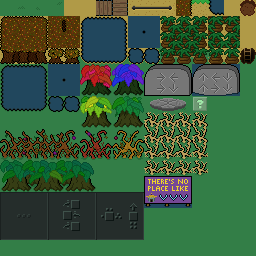
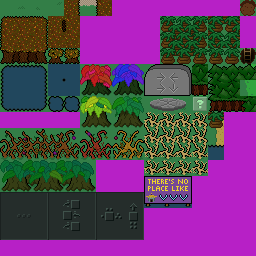
boundary repairs and Goody's room

diff --git a/src/app/sprite/types/fmn_sprite_book.c b/src/app/sprite/types/fmn_sprite_book.c
@@ -2,6 +2,7 @@
 
 #define tileid0 sprite->bv[0]
 #define opened sprite->bv[1]
+#define bellable sprite->bv[2]
 #define tileid_open sprite->argv[0]
 #define table_hack sprite->argv[1] /* cheat position down and turn off physics */
 
@@ -51,7 +52,7 @@ static void book_toggle(struct fmn_sprite *sprite) {
  
 static int16_t _book_interact(struct fmn_sprite *sprite,uint8_t itemid,uint8_t qualifier) {
   switch (itemid) {
-    case FMN_ITEM_BELL: book_toggle(sprite); break;
+    case FMN_ITEM_BELL: if (bellable) book_toggle(sprite); break;
     case FMN_ITEM_WAND: switch (qualifier) {
         case FMN_SPELLID_OPEN: book_open(sprite); break;
       } break;

diff --git a/README.md b/README.md
@@ -22,9 +22,11 @@ Tentatively aiming for full release 29 September 2023, the first full moon of au
 - [x] desert: tiles for forest boundary
 - [x] Church: join path at welcome mat.
 - [x] Castle basement: Make the church attachment look like the church as a hint.
-- [ ] swamp: forest edge
+- [x] swamp: forest edge
+- [x] "Draw door" book in Goody's room.
+- [x] Goody should face left.
 - [ ] Compass: make easier to read
-- [ ] Choose-a-door room.
+- [x] Choose-a-door room.
 - [ ] Black out unused tiles.
 
 ### Remaining major features. Finish before 31 August.
